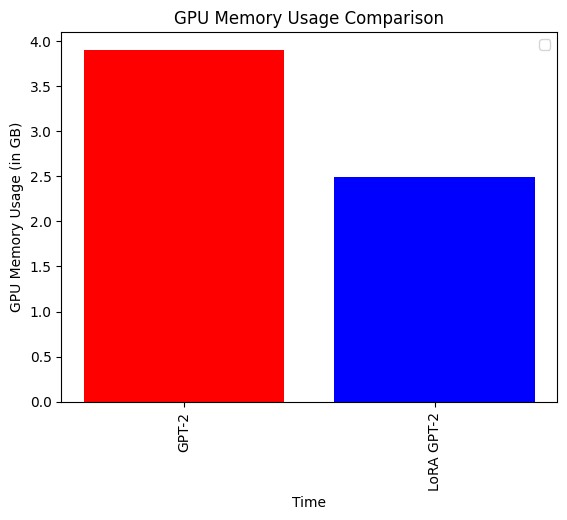
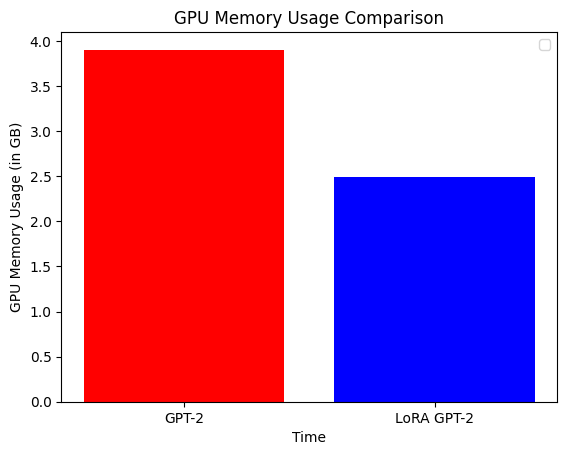
Small edit

diff --git a/examples/nlp/parameter_efficient_finetuning_of_gpt2_with_lora.py b/examples/nlp/parameter_efficient_finetuning_of_gpt2_with_lora.py
@@ -538,8 +538,6 @@ plt.bar(
     color=["red", "blue"],
 )
 
-plt.xticks(rotation=90)
-
 plt.xlabel("Time")
 plt.ylabel("GPU Memory Usage (in GB)")
 

diff --git a/examples/nlp/md/parameter_efficient_finetuning_of_gpt2_with_lora.md b/examples/nlp/md/parameter_efficient_finetuning_of_gpt2_with_lora.md
@@ -108,7 +108,7 @@ Generating splits...:   0%|          | 0/1 [00:00<?, ? splits/s]
 
 Generating train examples...:   0%|          | 0/79740 [00:00<?, ? examples/s]
 
-Shuffling /root/tensorflow_datasets/reddit_tifu/short/1.1.2.incomplete96NERD/reddit_tifu-train.tfrecord*...:  …
+Shuffling /root/tensorflow_datasets/reddit_tifu/short/1.1.2.incompleteS7YOTP/reddit_tifu-train.tfrecord*...:  …
 
 Dataset reddit_tifu downloaded and prepared to /root/tensorflow_datasets/reddit_tifu/short/1.1.2. Subsequent calls will reuse this data.
 
@@ -265,11 +265,11 @@ gpt2_lm.summary()
 <div class="k-default-codeblock">
 ```
 Downloading data from https://storage.googleapis.com/keras-nlp/models/gpt2_base_en/v1/vocab.json
-1042301/1042301 [==============================] - 0s 0us/step
+1042301/1042301 [==============================] - 1s 1us/step
 Downloading data from https://storage.googleapis.com/keras-nlp/models/gpt2_base_en/v1/merges.txt
-456318/456318 [==============================] - 0s 0us/step
+456318/456318 [==============================] - 1s 1us/step
 Downloading data from https://storage.googleapis.com/keras-nlp/models/gpt2_base_en/v1/model.h5
-497986112/497986112 [==============================] - 3s 0us/step
+497986112/497986112 [==============================] - 26s 0us/step
 
 WARNING:tensorflow:The following Variables were used in a Lambda layer's call (tf.linalg.matmul), but are not present in its tracked objects:   <tf.Variable 'token_embedding/embeddings:0' shape=(50257, 768) dtype=float32>. This is a strong indication that the Lambda layer should be rewritten as a subclassed Layer.
 
@@ -330,7 +330,7 @@ gpt2_lm_memory_usage = gpu_memory_callback.memory_usage
 
 <div class="k-default-codeblock">
 ```
-500/500 [==============================] - 418s 632ms/step - loss: 3.2987 - accuracy: 0.3268
+500/500 [==============================] - 435s 661ms/step - loss: 3.2986 - accuracy: 0.3268
 
 ```
 </div>
@@ -354,34 +354,40 @@ I like basketball because it's easy and fun, but it doesn't really have much to 
     
 <div class="k-default-codeblock">
 ```
-so i was playing with the boys in my school, and one of our players is really cute, and he's pretty loud. i was just trying to keep my voice quiet and to keep the conversation going, but it wasn't working.
+so i was playing with the boys in my school, and one of our players is really cute, and he's pretty loud. i was just trying to keep my voice quiet and to keep the conversation going, but when my mom asked me to stop, i said "i don't want to listen to him. it's a bad idea."
 ```
 </div>
     
 <div class="k-default-codeblock">
 ```
-i was trying to make a good impression on him, and as he was trying to make a good impression on me, i started to get a little nervous.
+she said "what do you mean?"
 ```
 </div>
     
 <div class="k-default-codeblock">
 ```
-so i start to make a joke about how loud my earphones are, and how loud my earphones are
-Total Time Elapsed: 21.47s
+so i'm like "what?"
+```
+</div>
+    
+<div class="k-default-codeblock">
+```
+i said "it's not your voice, it's your
+Total Time Elapsed: 20.45s
 ```
 </div>
     
 <div class="k-default-codeblock">
 ```
 Output:
-That Italian restaurant is closed this week. i went here a while back to see a movie in the morning. i was in a hurry and decided that the best time would be around 8:00, so i headed out. i got a good deal on the food, so i was hungry. 
+That Italian restaurant is in my hometown.  they have a great deal on a variety of dishes, but i usually just eat the food that i'm given.  they usually have a nice selection of food, and usually have a variety of drinks that you can drink.  so i'm sitting in a small table and i see my favorite drink in front of me, a beer, a glass of water. 
 ```
 </div>
     
 <div class="k-default-codeblock">
 ```
-fast-forward to 5:30 and i'm hungry and hungry. i'm sitting down to get ready for work. my mom comes in and tells me to sit down. i'm hungry so i grab a bowl of rice and sit down. my mom comes out and tells us to eat. we're hungry
-Total Time Elapsed: 1.43s
+my mom is in the middle of eating, and i'm sitting next to her and she's just looking at me with a smile.  i'm just so happy i'm eating
+Total Time Elapsed: 1.09s
 
 ```
 </div>
@@ -702,7 +708,7 @@ lora_model_memory_usage = gpu_memory_callback.memory_usage
 
 <div class="k-default-codeblock">
 ```
-500/500 [==============================] - 311s 505ms/step - loss: 3.5401 - accuracy: 0.3007
+500/500 [==============================] - 314s 513ms/step - loss: 3.5352 - accuracy: 0.3013
 
 ```
 </div>
@@ -718,8 +724,6 @@ plt.bar(
     [max(gpt2_lm_memory_usage), max(lora_model_memory_usage)],
     color=["red", "blue"],
 )
-
-plt.xticks(rotation=90)
 
 plt.xlabel("Time")
 plt.ylabel("GPU Memory Usage (in GB)")
@@ -790,26 +794,22 @@ generate_text(
 ```
 Output:
 I like basketball.
-i was in high school and a few years back. my mom was in the gym with her boyfriend and a few buddies. we had been having a great time with them. i was having a great time with the group and were having fun. 
-```
-</div>
-    
-    
-<div class="k-default-codeblock">
-```
-i was having fun, so my mom and the rest of the group went to
-Total Time Elapsed: 21.65s
+i was in the middle school class when i got my first class assignment, and my first class assignment was about a month ago (the class is in the middle of a summer semester). i was sitting with my friends at the bar, chatting with them about the school, and my friend said something to me, "well, this is my first year in school, so we'll be getting the assignment for the summer semester.  
+Total Time Elapsed: 23.86s
 ```
 </div>
     
 <div class="k-default-codeblock">
 ```
 Output:
-That Italian restaurant is located in a small town, so my girlfriend was visiting. 
- 
-  i have never eaten before so i decided to take a few days off to eat. 
-      i'm in my early 30s and i'm a little older than most people around here.      today i'm in a car with a passenger in a white van.    i was driving the car and the passenger was a young man.      i thought
-Total Time Elapsed: 0.72s
+That Italian restaurant is located at my place and i'm a little over halfway through. 
+```
+</div>
+    
+<div class="k-default-codeblock">
+```
+i was going to a party and had some fun with some friends.         i'm not a fan of music, and my friends are not really into music.          i was going to the bar and was having a good time.                                                                                                                      
+Total Time Elapsed: 1.01s
 
 ```
 </div>
